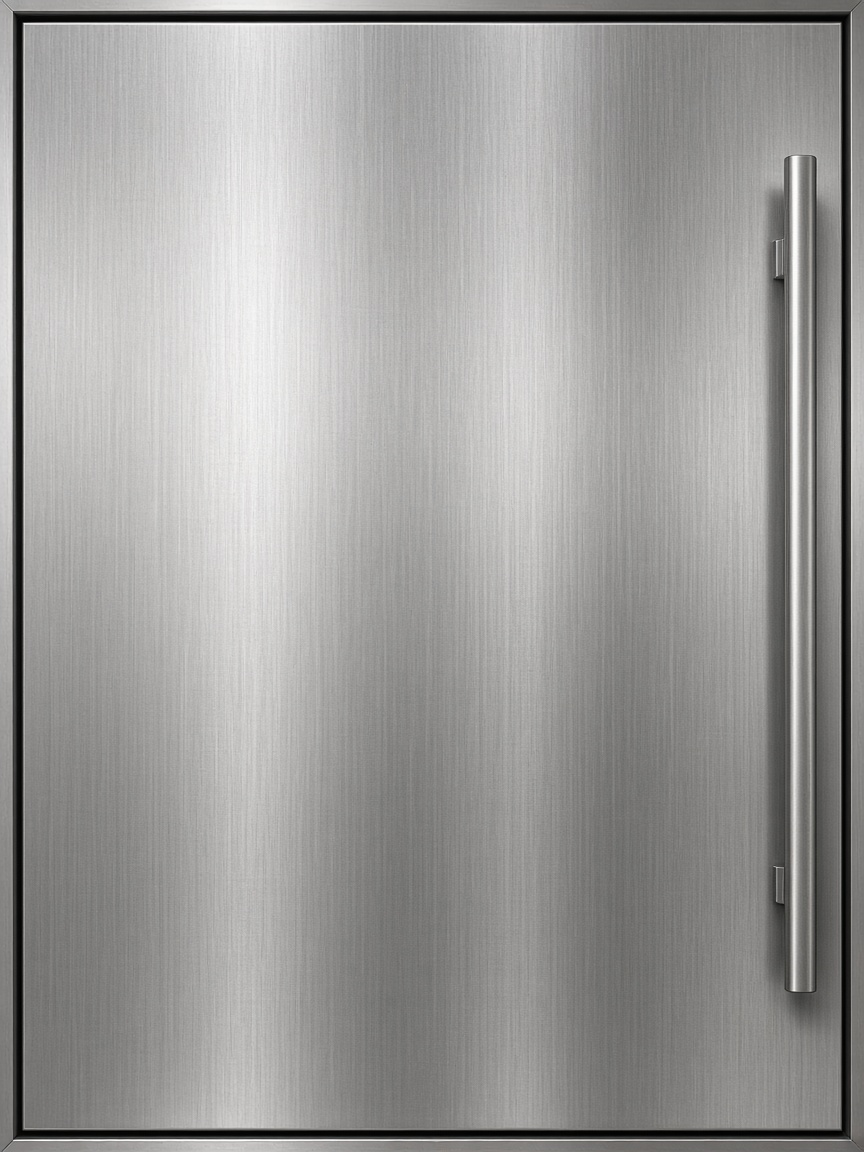
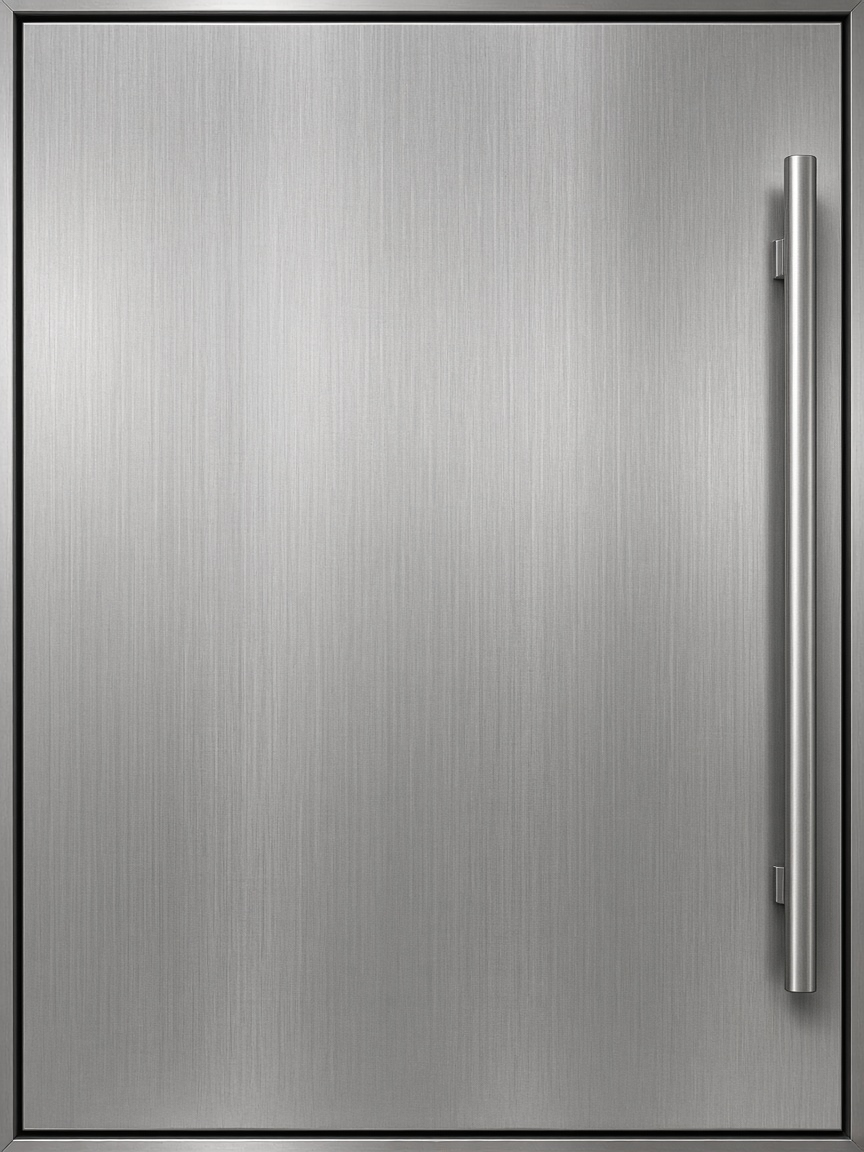
Close near-wall units in the opposite view; soften the fridge sheen
- Boxes whose back or side ghosts on a near wall paint their inside (far
  faces and floor) on the room, so the fridge, freezer and wine fridge
  (and wardrobes, TVs, chests) read as closed translucent solids
- Master chimney breast closed behind the ghost wall
- solid_audit: check what shows through ghost faces
- Face sheets are LANCZOS-shrunk before warping (no aliased stripes);
  larder sheet sheen toned down with dither, plain side/top/back sheets
- CACHE_REV 40

Changed region(s): [[0.2188, 0.0, 0.3438, 1.0]]

diff --git a/tools/solid_audit.py b/tools/solid_audit.py
@@ -9,7 +9,10 @@ near-wall layer), records the depth and call site of every face actually
 painted on the room (painter's order in the usual view, z-buffer in the
 opposite one), and flags pixels where what you see lies behind a solid's
 front, i.e. a missing face, an open side, a back face, a seam, a detail
-drawn inside the solid instead of on its face, or a sort-order slip. Raw pygame.draw strokes (outlines, knobs) count as
+drawn inside the solid instead of on its face, or a sort-order slip.
+A deep solid whose back or side is a translucent ghost (on a near wall in
+the opposite view) is checked too: through the ghost you must see its own
+inside faces, not the floor or wall beyond. Raw pygame.draw strokes (outlines, knobs) count as
 covering, as their depth isn't known.
 
     python tools/solid_audit.py              # every view, both cameras
@@ -60,6 +63,10 @@ class Audit:
         self.front = np.full((W, H), -np.inf, np.float32)
         self.fid = np.full((W, H), -1, np.int32)
         self.sites = []
+        self.gexit = np.full((W, H), np.inf, np.float32)   # where a ray through a ghost face leaves its solid
+        self.gsid = np.full((W, H), -1, np.int32)
+        self.fg = None                               # the ghost layer, once a ghost face is seen
+        self.vwall = np.zeros((W, H), bool)          # painted by ghost_near_walls (the near wall itself)
         self.decals = {}          # site -> (px, faces) hidden just behind a nearer face
         self._site_ix = {}
         self.scratch = pygame.Surface(size)
@@ -115,10 +122,15 @@ class Audit:
                 m = m & (d >= vis - 1e-3)
             vis[m] = d[m]
             self.vid[x0:x0 + w, y0:y0 + h][m] = sid
+            self.vwall[x0:x0 + w, y0:y0 + h][m] = self.in_ghost_walls()
             self.unk[x0:x0 + w, y0:y0 + h][m] = False
         if inside >= 40 and behind > 0.5 * inside:
             n, c = self.decals.get(sid, (0, 0))
             self.decals[sid] = (n + behind, c + 1)
+
+    @staticmethod
+    def in_ghost_walls():
+        return any(fr.name == "ghost_near_walls" for fr in traceback.extract_stack()[:-2])
 
     def zsync(self, x, y, w, h):
         """A drum body went straight into the z-buffer: take its depth."""
@@ -155,15 +167,46 @@ class Audit:
                  [P(xf, y0, z0), P(xf, y1, z0), P(xf, y1, z1), P(xf, y0, z1)],
                  [P(x0, y0, z1), P(x1, y0, z1), P(x1, y1, z1), P(x0, y1, z1)]]
         sid = self.sid() if not occ else self.sid()
-        for q in quads:
+        ghost = []
+        for i, q in enumerate(quads):
             if hc.FLIP and not occ and hc._near_plane(q):
-                continue              # this face is the ghost near wall's business
+                if "yxz"[i] in faces:     # translucent on the ghost layer: see ghost_through()
+                    ghost.append(q)
+                continue
             for qx0, qy0, m, d in self._raster(q):
                 w, h = m.shape
                 fr = self.front[qx0:qx0 + w, qy0:qy0 + h]
                 m = m & (d > fr)
                 fr[m] = d[m]
                 self.fid[qx0:qx0 + w, qy0:qy0 + h][m] = sid
+
+        if ghost and z1 - z0 >= 20:
+            self.ghost_through(ghost, x0, y0, x1, y1, z0, z1, sid)
+
+    def ghost_through(self, ghost, x0, y0, x1, y1, z0, z1, sid):
+        """A deep solid backed onto a near wall shows its back or side as a
+        translucent ghost; through it the room layer must show the solid's
+        own inside (its far faces and floor), not the floor or wall beyond.
+        Record, per pixel under the ghost face, the depth where the ray
+        leaves the solid (its far faces), to compare with what is drawn."""
+        P = hc.P
+        W, H = self.vis.shape
+        self.fg = hc._fg_surf
+        under = np.zeros((W, H), bool)
+        for q in ghost:
+            for qx0, qy0, m, d in self._raster(q):
+                w, h = m.shape
+                under[qx0:qx0 + w, qy0:qy0 + h] |= m
+        backs = [[P(x0, y1, z0), P(x1, y1, z0), P(x1, y1, z1), P(x0, y1, z1)],
+                 [P(x1, y0, z0), P(x1, y1, z0), P(x1, y1, z1), P(x1, y0, z1)],
+                 [P(x0, y0, z0), P(x1, y0, z0), P(x1, y1, z0), P(x0, y1, z0)]]
+        for q in backs:
+            for qx0, qy0, m, d in self._raster(q):
+                w, h = m.shape
+                m = m & under[qx0:qx0 + w, qy0:qy0 + h]
+                ge = self.gexit[qx0:qx0 + w, qy0:qy0 + h]
+                ge[m] = d[m]
+                self.gsid[qx0:qx0 + w, qy0:qy0 + h][m] = sid
 
     def _mask(self, r):
         a = pygame.surfarray.pixels_red(self.scratch)
@@ -216,6 +259,16 @@ def audit(view, out_dir):
     AUD = None
     with np.errstate(invalid="ignore"):
         bad = np.isfinite(a.front) & ~a.unk & (a.front - a.vis > EPS)
+        # seen through a ghost face: anything at or beyond the solid's far
+        # side that the solid did not draw itself (floor, far wall) is its
+        # open inside
+        seen_in = np.isfinite(a.gexit) & ~a.unk & (a.vis < a.gexit + EPS) & (a.vid != a.gsid) & ~a.vwall
+        if a.fg is not None and a.fg.get_size() == seen_in.shape:
+            seen_in &= pygame.surfarray.array_alpha(a.fg) < 200   # ghost layer opaque there: nothing shows through
+        bad |= seen_in
+        a.fid[seen_in & (a.fid < 0)] = a.gsid[seen_in & (a.fid < 0)]
+        a.fid[seen_in] = np.where(np.isfinite(a.front[seen_in]) & (a.front[seen_in] - a.vis[seen_in] > EPS),
+                                  a.fid[seen_in], a.gsid[seen_in])
     # report pairs
     pairs = {}
     if bad.any():

diff --git a/rooms/house_common.py b/rooms/house_common.py
@@ -494,6 +494,8 @@ def box(x0, y0, x1, y1, z0, z1, col, top=None, ol=True, faces="xyz"):
         _AUDIT.solid(x0, y0, x1, y1, z0, z1, faces)
     # The opposite view looks at the faces the usual camera never sees.
     y_face, x_face = (y0, x0) if FLIP else (y1, x1)
+    if FLIP and _flip_draw():
+        _close_behind_ghost(x0, y0, x1, y1, z0, z1, col, faces)
     if "y" in faces:
         c = shade(col, KY); qy(y_face, x0, x1, z0, z1, c, o(c))
     if "x" in faces:
@@ -502,6 +504,26 @@ def box(x0, y0, x1, y1, z0, z1, col, top=None, ol=True, faces="xyz"):
         c = top or shade(col, KT); qz(z1, x0, y0, x1, y1, c, o(c))
     if "x" in faces or "y" in faces or "z" in faces:
         _note_occluder(x0, y0, x1, y1, z0, z1)
+
+
+GHOST_NEAR = 0.58          # how close to a near wall a face must be to go on the ghost layer
+
+
+def _close_behind_ghost(x0, y0, x1, y1, z0, z1, col, faces):
+    """In the opposite view a deep unit backed onto a near wall (a fridge, a
+    wardrobe) shows its back or side as a translucent ghost. Without more,
+    the eye looks through that ghost into the empty box: floor, far wall.
+    Paint the box's inside - its far faces and floor - on the room so the
+    ghost reads as a closed translucent solid."""
+    back = "y" in faces and abs(y0) < GHOST_NEAR and y1 - y0 >= 0.06
+    side = "x" in faces and abs(x0) < GHOST_NEAR and x1 - x0 >= 0.06
+    if not (back or side) or z1 - z0 < 20:
+        return
+    inner = shade(col, 0.82)
+    with solid_near():
+        qz(z0 + 0.6, x0, y0, x1, y1, shade(col, 0.66))
+        qy(y1, x0, x1, z0, z1, shade(inner, KY))
+        qx(x1, y0, y1, z0, z1, shade(inner, KX))
 
 
 def sloped_rail(xa, ya, za, xb, yb, zb, w=0.05, h=8, col=(112, 48, 32)):

diff --git a/rooms/iso_paint.py b/rooms/iso_paint.py
@@ -101,9 +101,37 @@ def paint_box(x0, y0, x1, y1, z0, z1, kind, front="S", col=(90, 70, 50), shade_k
         paint_quad(z_tex, A, B, C, sk["z"], D=D)
 
 
+_FIT = {}
+
+
+def _fit(tex, A, B, C):
+    """Shrink a large face sheet (LANCZOS) to about twice the size it lands
+    at on screen before it is warped or sampled. Warping a 1000 px sheet
+    straight down to ~100 px point-samples its fine detail, so brushed metal
+    and wood grain alias into coarse stripes."""
+    w, h = tex.size
+    du = math.hypot(B[0] - A[0], B[1] - A[1])
+    dv = math.hypot(C[0] - A[0], C[1] - A[1])
+    tw = max(8, int(math.ceil(du * 2)))
+    th = max(8, int(math.ceil(dv * 2)))
+    if tw >= w and th >= h:
+        return tex
+    tw, th = min(tw, w), min(th, h)
+    # bucket the size so nearby faces share one shrunk copy
+    tw = min(w, 1 << max(3, (tw - 1).bit_length()))
+    th = min(h, 1 << max(3, (th - 1).bit_length()))
+    key = (id(tex), tw, th)
+    hit = _FIT.get(key)
+    if hit is None or hit[0] is not tex:
+        hit = (tex, tex.convert("RGBA").resize((tw, th), Image.LANCZOS))
+        _FIT[key] = hit
+    return hit[1]
+
+
 def paint_quad(tex, A, B, C, shade=1.0, pad=3, D=None):
     """Map `tex` onto the parallelogram A, B, C (image origin, +u, +v)."""
     A_pt, B_pt, C_pt = A, B, C
+    tex = _fit(tex, A, B, C)
     A = np.array(A, dtype=np.float64)
     B = np.array(B, dtype=np.float64)
     C = np.array(C, dtype=np.float64)

diff --git a/rooms/mock_master.py b/rooms/mock_master.py
@@ -265,7 +265,8 @@ def main():
         ext_w = exterior_layer({"E": side_garden}, haze=(170, 188, 150))
         sash_on_far("E", *WIN_W, ext_w, z0=70, z1=198, curtains=FLORAL, cols=2)
         y0, y1, d = BREAST
-        box(0, y0, d, y1, 0, WALL_H, shade(WALL, 0.96), faces="y")
+        # its east side is the ghost wall; "x" and "z" close the breast behind it
+        box(0, y0, d, y1, 0, WALL_H, shade(WALL, 0.96), faces="xyz")
         radiators()
     finish("Hide and Seek - Master Bedroom (mock-up)", OUT,
            subtitle="First Floor", copies=() if ARGS else ("shots/hs_master_mock.png",))

diff --git a/build_rooms.py b/build_rooms.py
@@ -213,7 +213,7 @@ def build_all(quiet=False):
 
 
 # Bump when saved room images must be rebuilt (opposite view added).
-CACHE_REV = "39"
+CACHE_REV = "40"
 
 
 def cache_ok():

diff --git a/NOTES.md b/NOTES.md
@@ -69,3 +69,11 @@ and depth sorting stay untouched.
   inside a face). It writes `shots/audit/<view>.png` with flagged pixels in magenta.
   `tools/compose_view.py` and `tools/diff_views.py` compose cache layers and diff
   two sets of views.
+- Opposite view, near-wall units (CACHE_REV 40): a box whose back or side
+  ghosts on a near wall now also paints its own inside (far faces and floor)
+  on the room (`_close_behind_ghost`), so a fridge, wardrobe or TV seen
+  through the ghost reads as a closed translucent solid. `solid_audit.py`
+  checks this too (what shows through a ghost face must be the solid's own
+  inside). Face sheets are shrunk with LANCZOS (`iso_paint._fit`) before
+  warping, so fine grain no longer aliases into stripes; the larder
+  fridge/freezer sheet has a softer sheen and plain side/top/back sheets.
